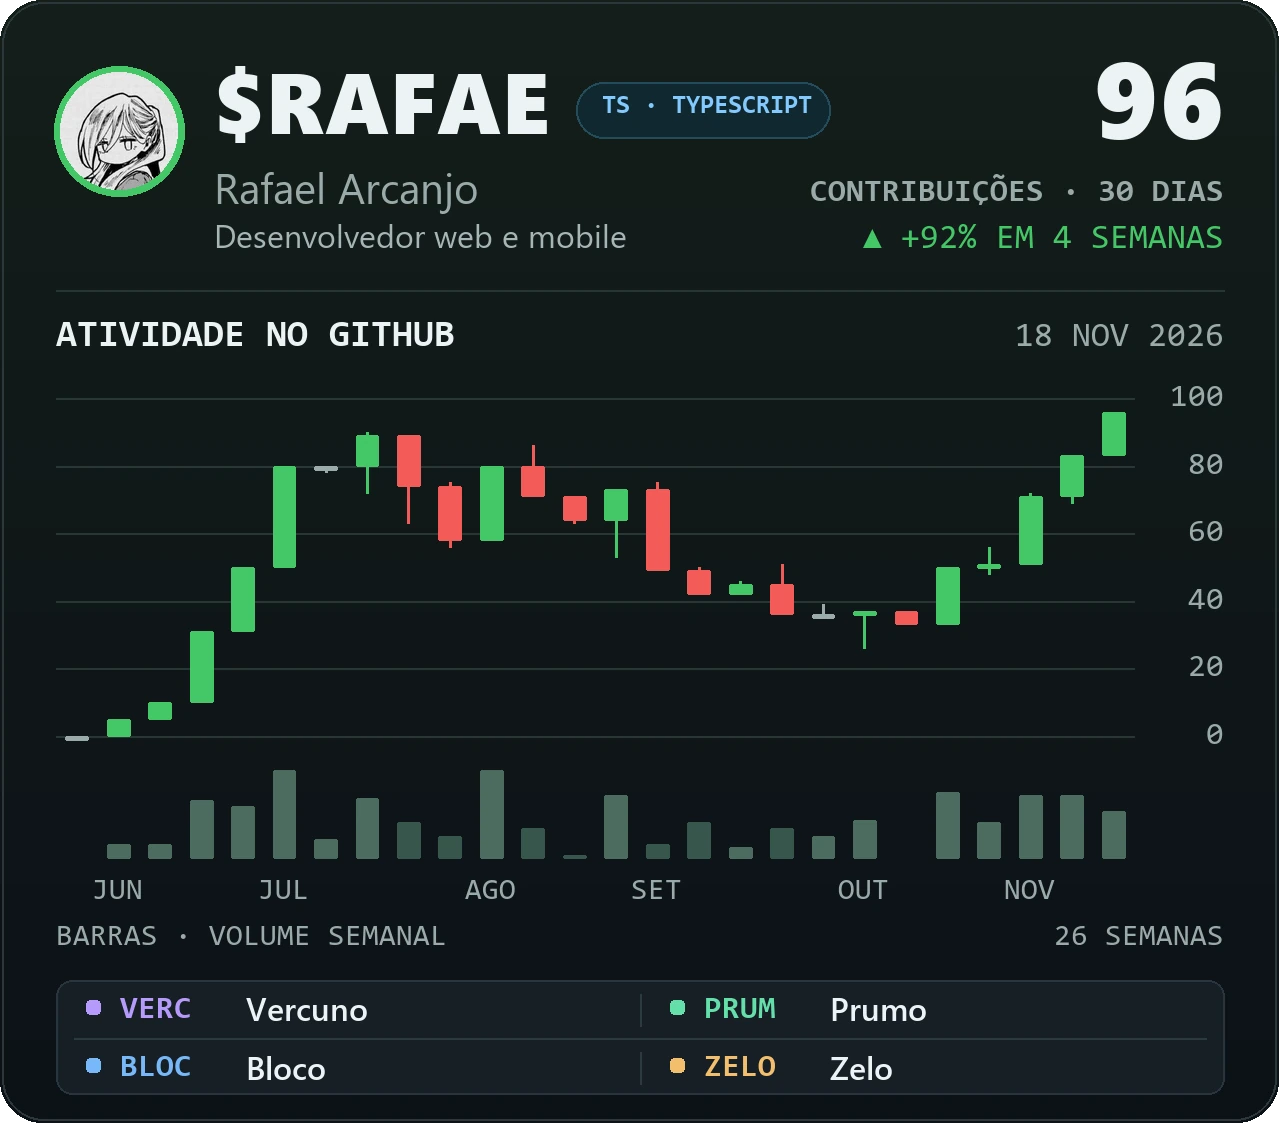
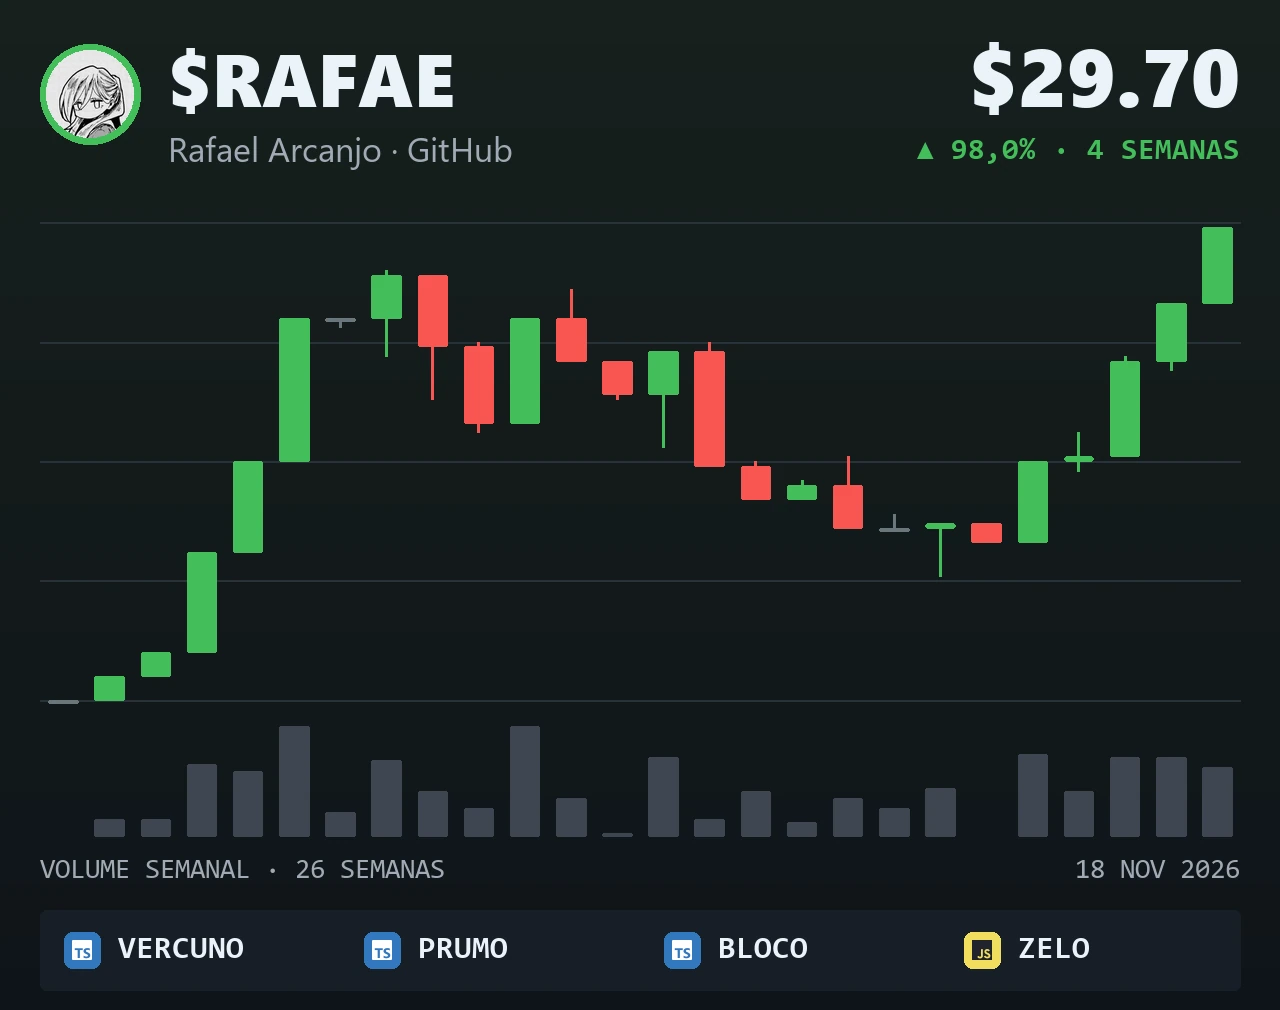
docs: compor os cartões do Stock Ticker no perfil
Apresenta perfil, carteira, distribuição de linguagens e volume com o visual da referência. Destaca iOS e amplia a lista de tecnologias.

diff --git a/README.md b/README.md
@@ -1,18 +1,74 @@
-<picture>
-  <source media="(max-width: 640px)" srcset="./assets/stock-ticker/mobile.webp">
-  <img width="100%" alt="Rafael Arcanjo, $RAFAE. Atividade no GitHub em 26 semanas até 18 de novembro de 2026, com 96 contribuições nos últimos 30 dias e alta de 92% em quatro semanas." src="./assets/stock-ticker/painel.webp">
-</picture>
-
-<sub>As velas mostram a variação semanal do total móvel de 30 dias. As barras mostram as contribuições de cada semana.</sub>
-
-<p align="center">
-  <a href="https://rafaeladsdev.com/">Portfólio</a> ·
-  <a href="https://www.linkedin.com/in/rafaeladsdev/">LinkedIn</a> ·
-  <a href="#carteira-de-projetos">Projetos</a> ·
-  <a href="https://steamcommunity.com/id/AuzendeGBR/">Steam</a>
+<p>
+  <picture>
+    <source media="(max-width: 640px)" srcset="./assets/stock-ticker/mobile.webp">
+    <img width="100%" alt="$RAFAE. Gráfico de velas das últimas 26 semanas. Cotação visual de US$ 29,70 para 99 contribuições nos últimos 30 dias, alta de 98,0% em quatro semanas." src="./assets/stock-ticker/painel.webp">
+  </picture>
 </p>
 
-## Perfil
+<sub>A cotação visual usa US$ 0,30 por contribuição nos últimos 30 dias. O volume mostra as contribuições por semana. Retrato de 18/11/2026.</sub>
+
+<p>
+  <picture>
+    <source media="(max-width: 640px)" srcset="./assets/stock-ticker/perfil-mobile.webp">
+    <img width="100%" alt="Perfil de Rafael Arcanjo, desenvolvedor web e mobile de Recife, PE. 20 seguidores, 39 repositórios públicos e 1 estrela." src="./assets/stock-ticker/perfil.webp">
+  </picture>
+</p>
+
+<a name="carteira-de-projetos"></a>
+
+<p>
+  <picture>
+    <source media="(max-width: 640px)" srcset="./assets/stock-ticker/carteira-mobile.webp">
+    <img width="100%" alt="Carteira de projetos. Commits na branch principal nos últimos 30 dias. Vercuno 8, Prumo 19, Bloco 12, Zelo 58, Cifrio 0 e Portfólio 0. O Portfólio tem 1 estrela." src="./assets/stock-ticker/carteira.webp">
+  </picture>
+</p>
+
+[Vercuno](https://github.com/RafaelADSdev/Vercuno) · [Prumo](https://github.com/RafaelADSdev/prumo) · [Bloco](https://github.com/RafaelADSdev/notionREA) · [Zelo](https://github.com/RafaelADSdev/Zelo) · [Cifrio](https://github.com/RafaelADSdev/Cifrio) · [Portfólio](https://github.com/RafaelADSdev/Site-curriculo-)
+
+<p>
+  <picture>
+    <source media="(max-width: 640px)" srcset="./assets/stock-ticker/linguagens-mobile.webp">
+    <img width="100%" alt="Linguagens nos repositórios do GitHub. TypeScript 73,04%, JavaScript 8,80%, Rust 7,16%, CSS 3,19%, Swift 3,14%." src="./assets/stock-ticker/linguagens.webp">
+  </picture>
+</p>
+
+<p>
+  <picture>
+    <source media="(max-width: 640px)" srcset="./assets/stock-ticker/volume-mobile.webp">
+    <img width="100%" alt="Mapa de contribuições das últimas 26 semanas. Sequência atual de 4 dias, melhor sequência de 6 dias no período e 361 contribuições no ano." src="./assets/stock-ticker/volume.webp">
+  </picture>
+</p>
+
+<p>
+  <a href="https://rafaeladsdev.com/"><img width="94" alt="Portfólio" src="./assets/stock-ticker/link-portfolio.webp"></a>&nbsp;<a href="https://www.linkedin.com/in/rafaeladsdev/"><img width="96" alt="LinkedIn" src="./assets/stock-ticker/link-linkedin.webp"></a>
+  <a href="#carteira-de-projetos"><img width="92" alt="Projetos" src="./assets/stock-ticker/link-projetos.webp"></a>&nbsp;<a href="https://steamcommunity.com/id/AuzendeGBR/"><img width="83" alt="Steam" src="./assets/stock-ticker/link-steam.webp"></a>
+</p>
+
+**Mobile**  
+![iOS](https://img.shields.io/badge/iOS-17232D?style=flat&logo=apple&logoColor=F6F7FA) ![Android](https://img.shields.io/badge/Android-17232D?style=flat&logo=android&logoColor=91D69D) ![React Native](https://img.shields.io/badge/React%20Native-17232D?style=flat&logo=react&logoColor=7EDAF4) ![Expo](https://img.shields.io/badge/Expo-17232D?style=flat&logo=expo&logoColor=F2F7FB)
+
+<details>
+<summary>Tecnologias e ferramentas</summary>
+
+**Web**  
+![TypeScript](https://img.shields.io/badge/TypeScript-17232D?style=flat&logo=typescript&logoColor=82BFFF) ![JavaScript](https://img.shields.io/badge/JavaScript-17232D?style=flat&logo=javascript&logoColor=F2DF63) ![HTML5](https://img.shields.io/badge/HTML5-17232D?style=flat&logo=html5&logoColor=FE886F) ![CSS](https://img.shields.io/badge/CSS-17232D?style=flat&logo=css&logoColor=BA99DF) ![React](https://img.shields.io/badge/React-17232D?style=flat&logo=react&logoColor=7EDAF4) ![Next.js](https://img.shields.io/badge/Next.js-17232D?style=flat&logo=nextdotjs&logoColor=F0F5FA) ![Astro](https://img.shields.io/badge/Astro-17232D?style=flat&logo=astro&logoColor=FDA884) ![Tailwind CSS](https://img.shields.io/badge/Tailwind%20CSS-17232D?style=flat&logo=tailwindcss&logoColor=75D9EF) ![Three.js](https://img.shields.io/badge/Three.js-17232D?style=flat&logo=threedotjs&logoColor=FFFFFF) ![Lucide](https://img.shields.io/badge/Lucide-17232D?style=flat&logo=lucide&logoColor=FCA48C) ![Recharts](https://img.shields.io/badge/Recharts-17232D?style=flat) ![Tiptap](https://img.shields.io/badge/Tiptap-17232D?style=flat) ![Yjs](https://img.shields.io/badge/Yjs-17232D?style=flat)
+
+**Mobile**  
+![Expo Router](https://img.shields.io/badge/Expo%20Router-17232D?style=flat&logo=expo&logoColor=F0F5FA) ![React Native Reanimated](https://img.shields.io/badge/React%20Native%20Reanimated-17232D?style=flat&logo=react&logoColor=7EDAF4)
+
+**Back-end e dados**  
+![Node.js](https://img.shields.io/badge/Node.js-17232D?style=flat&logo=nodedotjs&logoColor=9BE680) ![Supabase](https://img.shields.io/badge/Supabase-17232D?style=flat&logo=supabase&logoColor=70DBA7) ![PostgreSQL](https://img.shields.io/badge/PostgreSQL-17232D?style=flat&logo=postgresql&logoColor=A3C8EE) ![Prisma](https://img.shields.io/badge/Prisma-17232D?style=flat&logo=prisma&logoColor=C7B9F8) ![SQLite](https://img.shields.io/badge/SQLite-17232D?style=flat&logo=sqlite&logoColor=8DD5FC) ![Zod](https://img.shields.io/badge/Zod-17232D?style=flat&logo=zod&logoColor=94BBFA) ![DBeaver](https://img.shields.io/badge/DBeaver-17232D?style=flat&logo=dbeaver&logoColor=E5C697) ![IndexedDB](https://img.shields.io/badge/IndexedDB-17232D?style=flat)
+
+**Integrações e conteúdo**  
+![Bitrix24](https://img.shields.io/badge/Bitrix24-17232D?style=flat) ![n8n](https://img.shields.io/badge/n8n-17232D?style=flat&logo=n8n&logoColor=F78E9E) ![Sanity](https://img.shields.io/badge/Sanity-17232D?style=flat&logo=sanity&logoColor=FA967F) ![WhatsApp Cloud API](https://img.shields.io/badge/WhatsApp%20Cloud%20API-17232D?style=flat&logo=whatsapp&logoColor=84E6A1)
+
+**Testes e entrega**  
+![Vitest](https://img.shields.io/badge/Vitest-17232D?style=flat&logo=vitest&logoColor=B8D989) ![Playwright](https://img.shields.io/badge/Playwright-17232D?style=flat) ![Biome](https://img.shields.io/badge/Biome-17232D?style=flat&logo=biome&logoColor=80ADF2) ![Prettier](https://img.shields.io/badge/Prettier-17232D?style=flat&logo=prettier&logoColor=F4CE7E) ![esbuild](https://img.shields.io/badge/esbuild-17232D?style=flat&logo=esbuild&logoColor=F2DA65) ![npm](https://img.shields.io/badge/npm-17232D?style=flat&logo=npm&logoColor=FC9F9A) ![Git](https://img.shields.io/badge/Git-17232D?style=flat&logo=git&logoColor=F99A80) ![GitHub Actions](https://img.shields.io/badge/GitHub%20Actions-17232D?style=flat&logo=githubactions&logoColor=9AC9F8) ![Vercel](https://img.shields.io/badge/Vercel-17232D?style=flat&logo=vercel&logoColor=F2F7FB)
+
+</details>
+
+<details>
+<summary>Sobre mim</summary>
 
 Sou **Rafael Arcanjo**, desenvolvedor web e mobile em Recife, PE. Crio sites, aplicativos e sistemas com TypeScript, React, Next.js e React Native.
 
@@ -20,14 +76,19 @@ Sou formado em **Análise e Desenvolvimento de Sistemas** pelo **Senac PE**. Na 
 
 Estou aberto a novos projetos e oportunidades.
 
-## Carteira de projetos
+</details>
 
-| Código | Projeto | O que faz |
-| :--- | :--- | :--- |
-| `VERC` | [Vercuno](https://github.com/RafaelADSdev/Vercuno) | Site de serviços e portfólio de landing pages, sites institucionais e sistemas web. `Next.js` · `TypeScript` |
-| `PRUM` | [Prumo](https://github.com/RafaelADSdev/prumo) | Painel para receitas, despesas, serviços e veículos, com opção de uso local. `Next.js` · `Prisma` · `SQLite` |
-| `BLOC` | [Bloco](https://github.com/RafaelADSdev/notionREA) | Caderno com editor em blocos e dados salvos no navegador. `Next.js` · `Tiptap` · `IndexedDB` · [Demo](https://bloco-jet.vercel.app/) |
-| `ZELO` | [Zelo](https://github.com/RafaelADSdev/Zelo) | Atendimento pelo WhatsApp, assistentes de IA e revisão de campanhas antes do envio. `Node.js` · `Supabase` · `WhatsApp Cloud API` |
+<details>
+<summary>Sobre os projetos</summary>
+
+- **[Vercuno](https://github.com/RafaelADSdev/Vercuno)** apresenta serviços e cases de landing pages, sites institucionais e sistemas web.
+- **[Prumo](https://github.com/RafaelADSdev/prumo)** organiza receitas, despesas, serviços e veículos em um painel com opção de uso local.
+- **[Bloco](https://github.com/RafaelADSdev/notionREA)** oferece um editor de notas em blocos com armazenamento no navegador. [Testar o Bloco](https://bloco-jet.vercel.app/)
+- **[Zelo](https://github.com/RafaelADSdev/Zelo)** reúne atendimento pelo WhatsApp, assistentes de IA e revisão de campanhas.
+- **[Cifrio](https://github.com/RafaelADSdev/Cifrio)** é um aplicativo de finanças pessoais feito com React Native e Expo, com exportação para iOS e Android.
+- **[Portfólio](https://github.com/RafaelADSdev/Site-curriculo-)** reúne formação, experiência e projetos em português e inglês.
+
+</details>
 
 <details>
 <summary>Capturas dos projetos</summary>
@@ -49,17 +110,8 @@ Estou aberto a novos projetos e oportunidades.
 
 </details>
 
-## Tecnologias
-
-| Área | Ferramentas |
-| :--- | :--- |
-| Web | `TypeScript` · `JavaScript` · `React` · `Next.js` · `Astro` · `Tailwind CSS` · `Three.js` |
-| Mobile | `React Native` · `Expo` |
-| Back-end e dados | `Node.js` · `Supabase` · `PostgreSQL` · `Prisma` · `SQLite` · `Zod` · `DBeaver` |
-| Integrações e conteúdo | `Bitrix24` · `n8n` · `Sanity` |
-| Testes e entrega | `Vitest` · `Playwright` · `Vercel` · `GitHub Actions` |
-
-## Contribuições
+<details>
+<summary>Animação de contribuições, estatísticas e jogos</summary>
 
 <picture>
   <source media="(prefers-color-scheme: dark)" srcset="https://raw.githubusercontent.com/RafaelADSdev/RafaelADSdev/output/github-contribution-grid-snake-dark.svg">
@@ -91,6 +143,8 @@ Estou aberto a novos projetos e oportunidades.
 </p>
 
 **Runeterra · Arena offline** é um projeto de fã com campanha em 10 regiões, editor de decks e duelos contra o bot. `JavaScript` · `WebGL` · `PWA` · [Jogar no navegador](https://lorremake.vercel.app/) · [Ver código](https://github.com/RafaelADSdev/Lor-remake)
+
+</details>
 
 </details>
 
